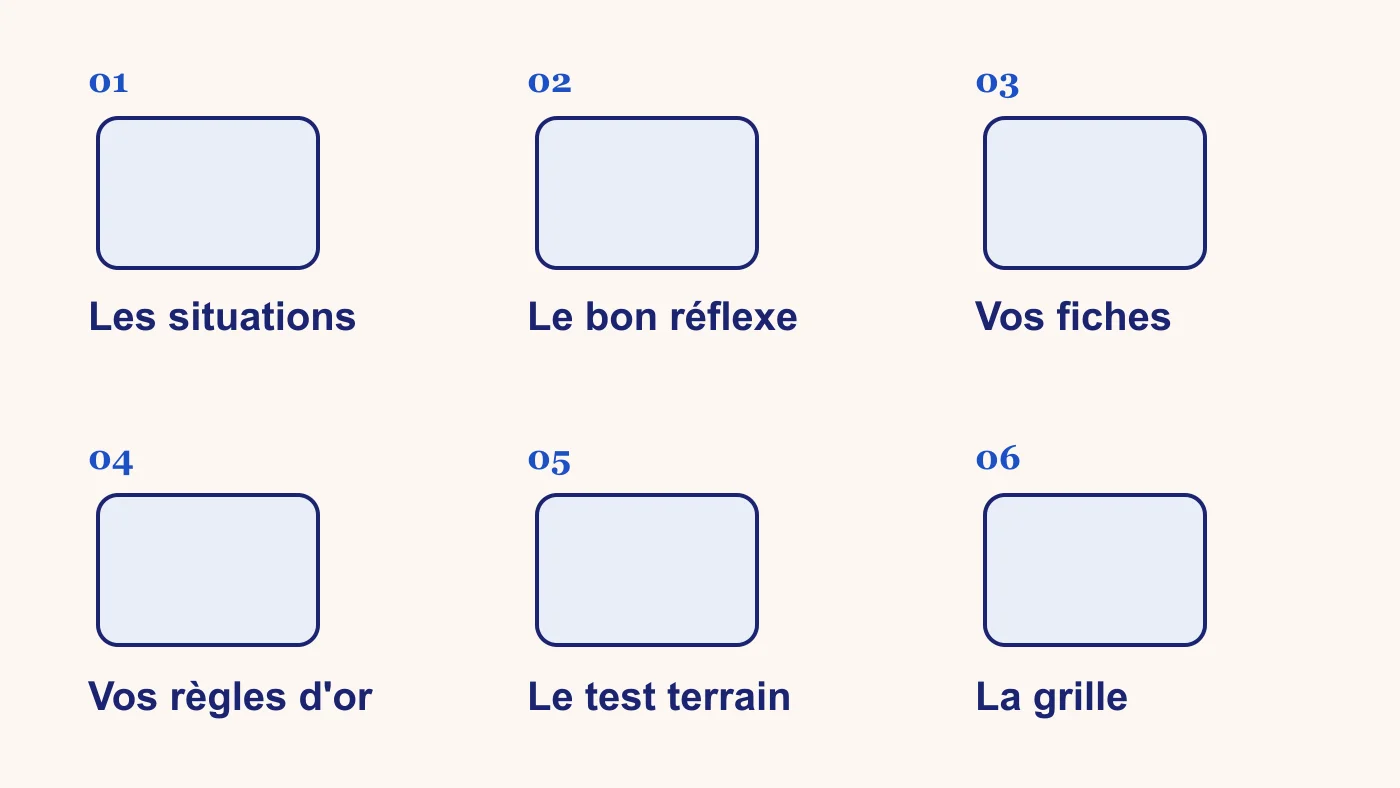
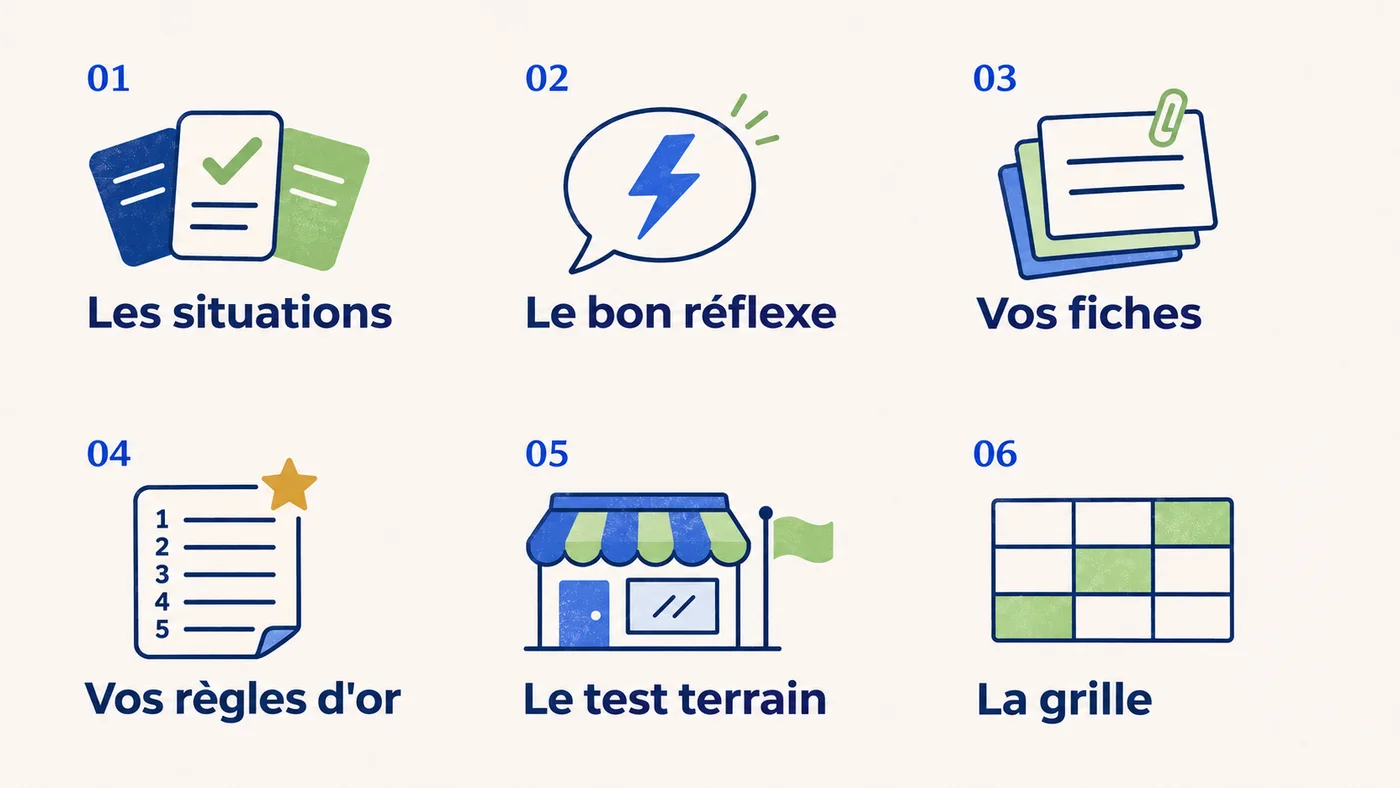
1-2-2 : 6.3, images fournies par l'utilisateur : carte du chemin (barre du milieu masquée) et visage de Nadia, la responsable ; script d'import tools/import-images-6-3.mjs ; Lucas et le décor restent provisoires

diff --git a/decouverte-client/1-2-2/js/content-s6.js b/decouverte-client/1-2-2/js/content-s6.js
@@ -705,7 +705,7 @@
       title: 'Ma banque de questions terrain',
       subtitle: 'Préparez, pour un nouveau collègue, les questions qui réussissent les découvertes dans votre métier.',
       decor: 'dialogues/entreprise.webp',
-      manager: { name: 'Nadia', role: 'Votre responsable', face: 'visages/mme-riviere.webp' },
+      manager: { name: 'Nadia', role: 'Votre responsable', face: 'visages/responsable.webp' },
       newcomer: { name: 'Lucas', role: 'Nouveau collègue, en alternance', face: 'visages/antoine.webp' },
       ask: 'Lucas arrive lundi en alternance. Je voudrais que vous lui prépariez une banque de questions pour réussir ses découvertes client. Vous connaissez nos clients mieux que personne : appuyez-vous sur ce que vous vivez au comptoir.',
       mission: [

diff --git a/decouverte-client/1-2-2/AVANCEMENT.md b/decouverte-client/1-2-2/AVANCEMENT.md
@@ -82,7 +82,7 @@ Six étapes : 1. Les situations (message de Nadia, la responsable, pour Lucas, l
 
 Juge de la FORME d’une question (le métier n’est pas connu d’avance) : `ATELIER_QTYPE` (ouverte, fermée, alternative, orientée, produit, pas une question ; et « fait-elle hiérarchiser ? ») + banque de tests `tests/banque.test.cjs` (~70 questions de métiers variés, dans npm test). Réponses du bon réflexe sans biais (vérifié : jamais nettement plus longue, positions 3/2/3).
 
-Images PROVISOIRES : carte du chemin `parcours/banque-chemin.webp` (générée, même gabarit que celle de 6.2 : à remplacer), Nadia = visages/mme-riviere, Lucas = visages/antoine, décor = dialogues/entreprise. Descriptions données à l’utilisateur (banque-chemin, responsable, nouveau-collegue, salle-equipe).
+Images : `tools/import-images-6-3.mjs` importe celles des Téléchargements (ignore les absentes ; ajouter les noms de fichiers dans FACES / DECORS quand elles arrivent). Fournies (17/11) : carte du chemin `parcours/banque-chemin.webp` (barre du milieu masquée, même gabarit que 6.2, positions inchangées), Nadia = `visages/responsable.webp`. Encore PROVISOIRES : Lucas = visages/antoine (attendu : nouveau-collegue), décor = dialogues/entreprise (attendu : salle-equipe).
 
 ## Reprise prévue (17/11/2026)
 
